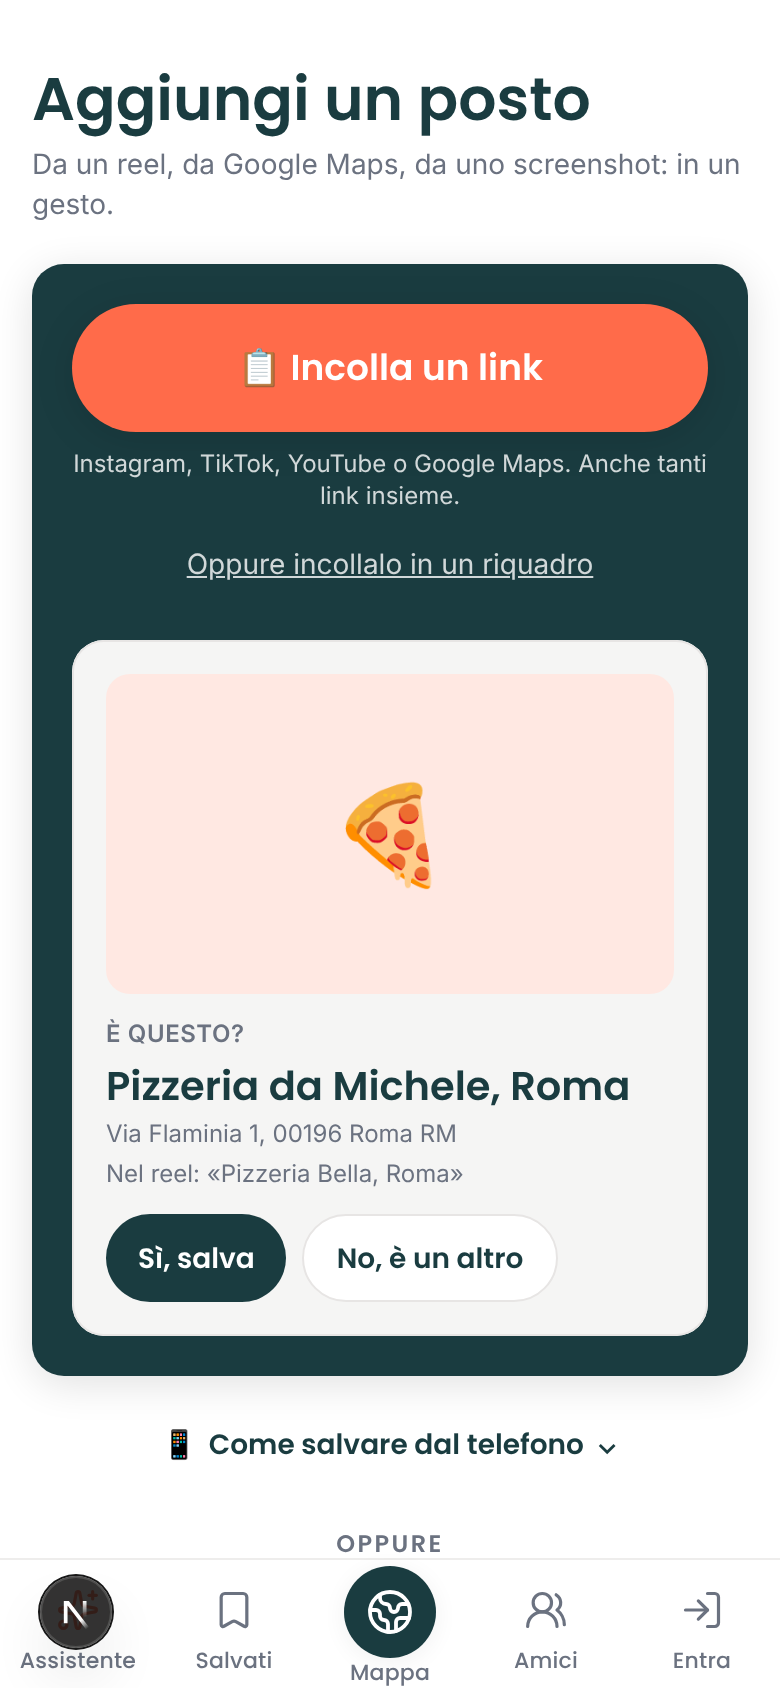
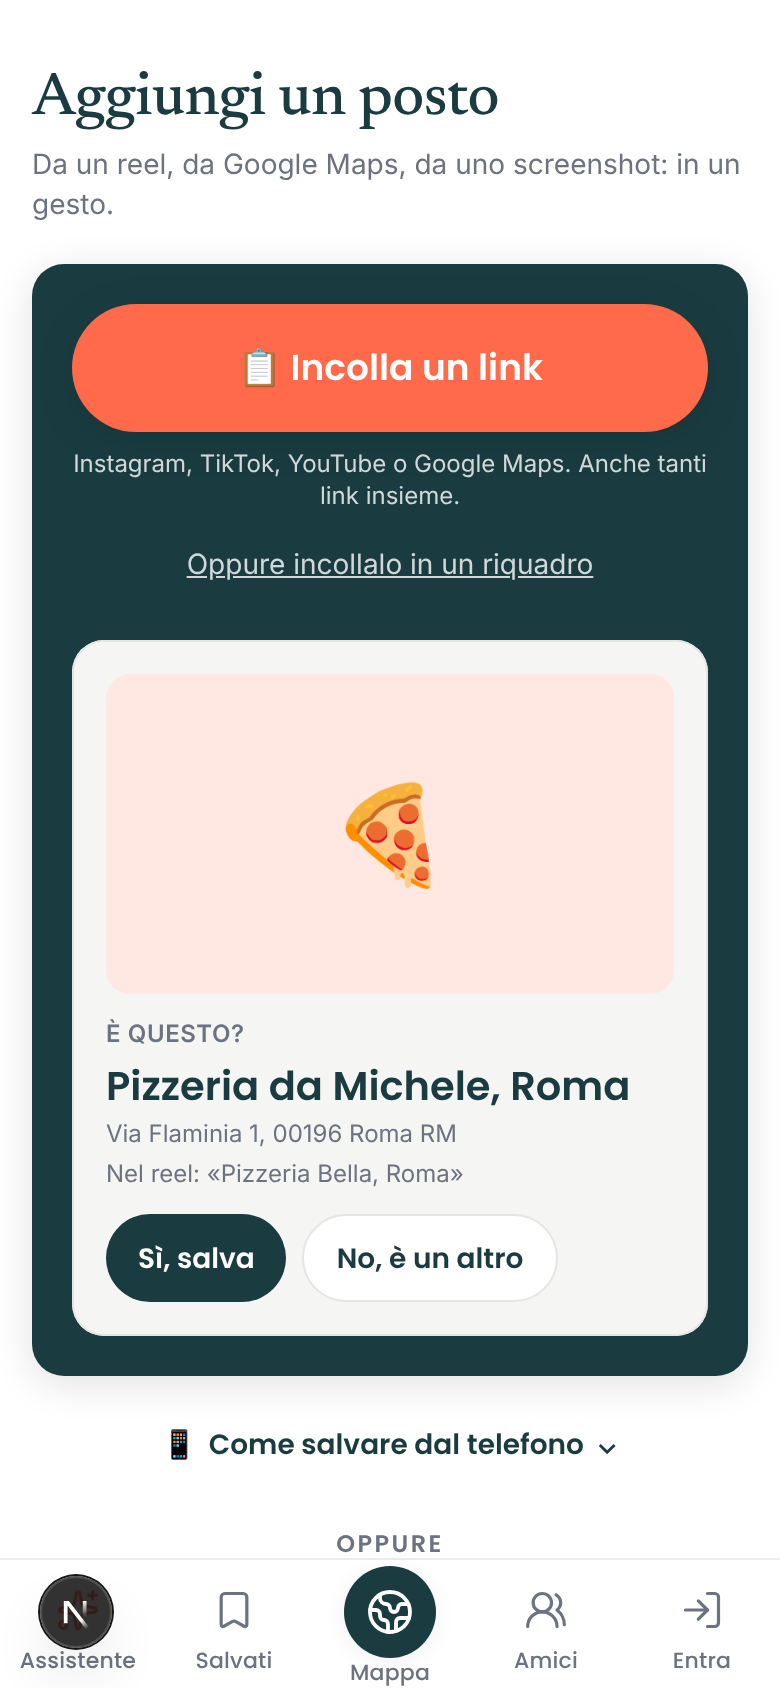
docs: sessione della sera ancora in corso
Claude-Session: https://claude.ai/code/session_01WaRiHuSLsrxWRKbpZiAWja

Changed region(s): [[0.0308, 0.0308, 0.7692, 0.0924]]

diff --git a/docs/autonomia/BACKLOG.md b/docs/autonomia/BACKLOG.md
@@ -87,7 +87,7 @@ In pausa fino al 26/10: proposta 7 (ranking "Aperto da poco"), proposte 6, 9, 12
 - Sessione prima: **Prossima sessione (dal 30/10 sera), in ordine:** (a) se Lorenzo ha detto "aggiungi tu le chiavi degli avvisi": generarle e metterle su Vercel, poi un avviso vero; (b) "Chiedi ai tuoi posti" anche dalla home/assistente quando la domanda somiglia ai salvati (oggi solo nella pagina dei salvati) e prova dal vivo in produzione con un account con salvati veri; (c) proposta 3, passo 2: prenotazioni sul server con consenso e informativa; (d) proposta 30 (serve un file vero di esportazione Instagram); (e) "Altri come questo" (27); (f) "Prenota su TheFork" spento: prova dal vivo sull'anteprima Vercel con 3–4 siti veri.
 - Sessione prima: **Prossima sessione (dal 30/10), in ordine:** (a) se Lorenzo ha detto "aggiungi tu le chiavi degli avvisi": generarle e metterle su Vercel (Production e Preview), poi provare un avviso vero; (b) minori del collaudo del 30/10: al primo "Ci sono stato" la prova si salva al tocco anche se poi si sceglie "Ieri" (aspettare il foglio, come per "tornato"); la scheda chiama `/api/ristoratore/serate` due volte (posto-locale e omaggio: unire); (c) proposta 3, passo 2: prenotazioni sul server con consenso e informativa; (d) proposta 30, salvati di Instagram dal file di Meta (serve un file vero); (e) proposta 33 "Chiedi ai tuoi salvati"; (f) "Altri come questo" (27) e "Verdetto in arrivo" (26). Per accendere l'omaggio serve un locale verificato che lo voglia (Lorenzo/Roberto).
 - Sessione prima: **Prossima sessione (dalla notte del 29/10), superata:** (a) se Lorenzo ha detto "aggiungi tu le chiavi degli avvisi": generarle e metterle su Vercel (Production e Preview), poi provare un avviso vero; (a2) **proposta 28 "📍 sul posto": BOCCIATA 2 volte il 30/10 notte (7,5 e 8,2), non unita.** Codice nei commit 56bf00c e successivo, tolti con un revert (riprenderli con `git revert` del revert). Da correggere: la riga "Ci sei stato oggi · 2 volte · 📍 sul posto · Cambia" a 390 px lascia "Cambia" da solo (tenerli insieme o "📍 sul posto" su una riga sotto); la spiegazione deve vedersi al tocco (una riga nel foglio "Modifica"), non solo in `title`; test con telefono a più di 150 m e "tornato" con data passata. La colonna `saved_places.visita_vista_al` è già nel database (vuota). Poi revisore nuovo. (b) proposta 12, omaggio a chi torna (progetto in `PROPOSTE.md`, usa la prova di "📍 sul posto"); (c) proposta 3, passo 2: prenotazioni sul server con consenso e informativa; (d) proposta 30, salvati di Instagram dal file di Meta (serve un file vero di esportazione per verificare il formato); (e) "Altri come questo" (27) e "Verdetto in arrivo" (26), ora che il credito AI è tornato. **Fatto nella notte del 29→30/10:** Instagram dal link provato (non si può) + "Guarda il reel", avvisi push, cliente di parola, bozza per Roberto (25); "📍 sul posto" (28) costruita ma bocciata, progetti di 9 e 12.
-**In corso adesso:** domenica 1/11 (festivo), sessione ripresa alle 19:20 su richiesta di Lorenzo in chat, branch `claude/busy-mendel-ipg07j` (giro completo + Idee). Prima: domenica 1/11, sessione delle 18:06, finita alle 18:57: prova dal vivo in produzione di "Chiedi ai tuoi posti", "Altri come questo" e "Dai tuoi salvati", corretto "Dai tuoi salvati" che riproponeva il posto di partenza, PR #119 unita e in produzione, verificata dopo il merge; branch `claude/busy-mendel-ipg07j`). Prima: domenica 1/11, sessione delle 14:06, finita alle 14:39: riga "Legate a un altro account", prova dal vivo in produzione tutto OK, PR #118 unita e in produzione; branch `claude/busy-mendel-9oj0iy`). Prima: domenica 1/11, sessione delle 10:06, finita alle 11:13: "Ci vai domani?" in produzione, PR #117; branch `claude/busy-mendel-7xg7eg`). Prima: domenica 1/11, sessione delle 03:06, finita alle 03:52: pannello del locale asciutto e "Tavoli da Mapetite" accesa per tutti; branch `claude/busy-mendel-herq4b`). Prima: sabato 31/10, sessione delle 22:07, finita alle 23:11: prenotazioni "vince la modifica più recente" in produzione, "Tavoli da Mapetite" nel pannello spenta dopo due collaudi bocciati; branch `claude/busy-mendel-kll2s9`). Prima: sessione delle 18:06, finita alle 18:56: "Tienile sul tuo account" accesa per tutti, font dentro il progetto; branch `claude/busy-mendel-k2oof9`). Prima: sessione delle 14:07, finita alle 15:20: "Tienile sul tuo account", spenta per tutti dopo due collaudi bocciati; branch `claude/busy-mendel-cjw7uc`). Prima: continuazione 11:15–12:13 (PR #112), mattina 10:06–11:12 (PR #111). Ricerche Google vere oggi (dalle 9:00 del 1/11): 2 (sessione 18:06: "Altri come L'Elementare" prima e dopo il merge).
+**In corso adesso:** domenica 1/11 (festivo), sessione ripresa alle 19:20 su richiesta di Lorenzo in chat e continua per tutta la notte, branch `claude/busy-mendel-ipg07j` (giro completo, Idee, Salvati, profilo, titoli, mappa, risultati, Importa; più sviluppatori in parallelo). Le sessioni programmate della notte riprendono da questo branch. Prima: domenica 1/11, sessione delle 18:06, finita alle 18:57: prova dal vivo in produzione di "Chiedi ai tuoi posti", "Altri come questo" e "Dai tuoi salvati", corretto "Dai tuoi salvati" che riproponeva il posto di partenza, PR #119 unita e in produzione, verificata dopo il merge; branch `claude/busy-mendel-ipg07j`). Prima: domenica 1/11, sessione delle 14:06, finita alle 14:39: riga "Legate a un altro account", prova dal vivo in produzione tutto OK, PR #118 unita e in produzione; branch `claude/busy-mendel-9oj0iy`). Prima: domenica 1/11, sessione delle 10:06, finita alle 11:13: "Ci vai domani?" in produzione, PR #117; branch `claude/busy-mendel-7xg7eg`). Prima: domenica 1/11, sessione delle 03:06, finita alle 03:52: pannello del locale asciutto e "Tavoli da Mapetite" accesa per tutti; branch `claude/busy-mendel-herq4b`). Prima: sabato 31/10, sessione delle 22:07, finita alle 23:11: prenotazioni "vince la modifica più recente" in produzione, "Tavoli da Mapetite" nel pannello spenta dopo due collaudi bocciati; branch `claude/busy-mendel-kll2s9`). Prima: sessione delle 18:06, finita alle 18:56: "Tienile sul tuo account" accesa per tutti, font dentro il progetto; branch `claude/busy-mendel-k2oof9`). Prima: sessione delle 14:07, finita alle 15:20: "Tienile sul tuo account", spenta per tutti dopo due collaudi bocciati; branch `claude/busy-mendel-cjw7uc`). Prima: continuazione 11:15–12:13 (PR #112), mattina 10:06–11:12 (PR #111). Ricerche Google vere oggi (dalle 9:00 del 1/11): 2 (sessione 18:06: "Altri come L'Elementare" prima e dopo il merge).
 **Dopo il merge (03:40), giro in produzione:** "trattoria a Trastevere" → scheda nuova con foto vera, verdetto in alto, barra dell'app nascosta, "Orari, contatti, recensioni" sopra i tasti, nessun errore (`screenshots/2026-10-24/produzione-scheda-390.png`). **Da guardare:** senza AI (credito a zero) primo in lista è Trattoria Da Enzo, il più famoso: il caso 20 di TEST-RICERCHE regge solo con l'AI accesa. Se il credito non torna entro la demo, spostare i posti di massa in fondo anche senza AI (`mainstream.ts`).
 **Fatto lunedì 26/10 notte (04:06–, branch `claude/great-cannon-hmntgq`). Nessuna sessione nel weekend del 24–25/10 dopo quella delle 00:06.**
 - **Credito Anthropic ancora a zero alle 04:08** (stesso errore). Notifica mandata a Lorenzo. Senza AI la ricerca regge: provata dal vivo "trattoria a Trastevere" (1 ricerca Google vera), Da Enzo è decimo, non primo; i posti già visti hanno il verdetto, i nuovi una frase di recensione.
